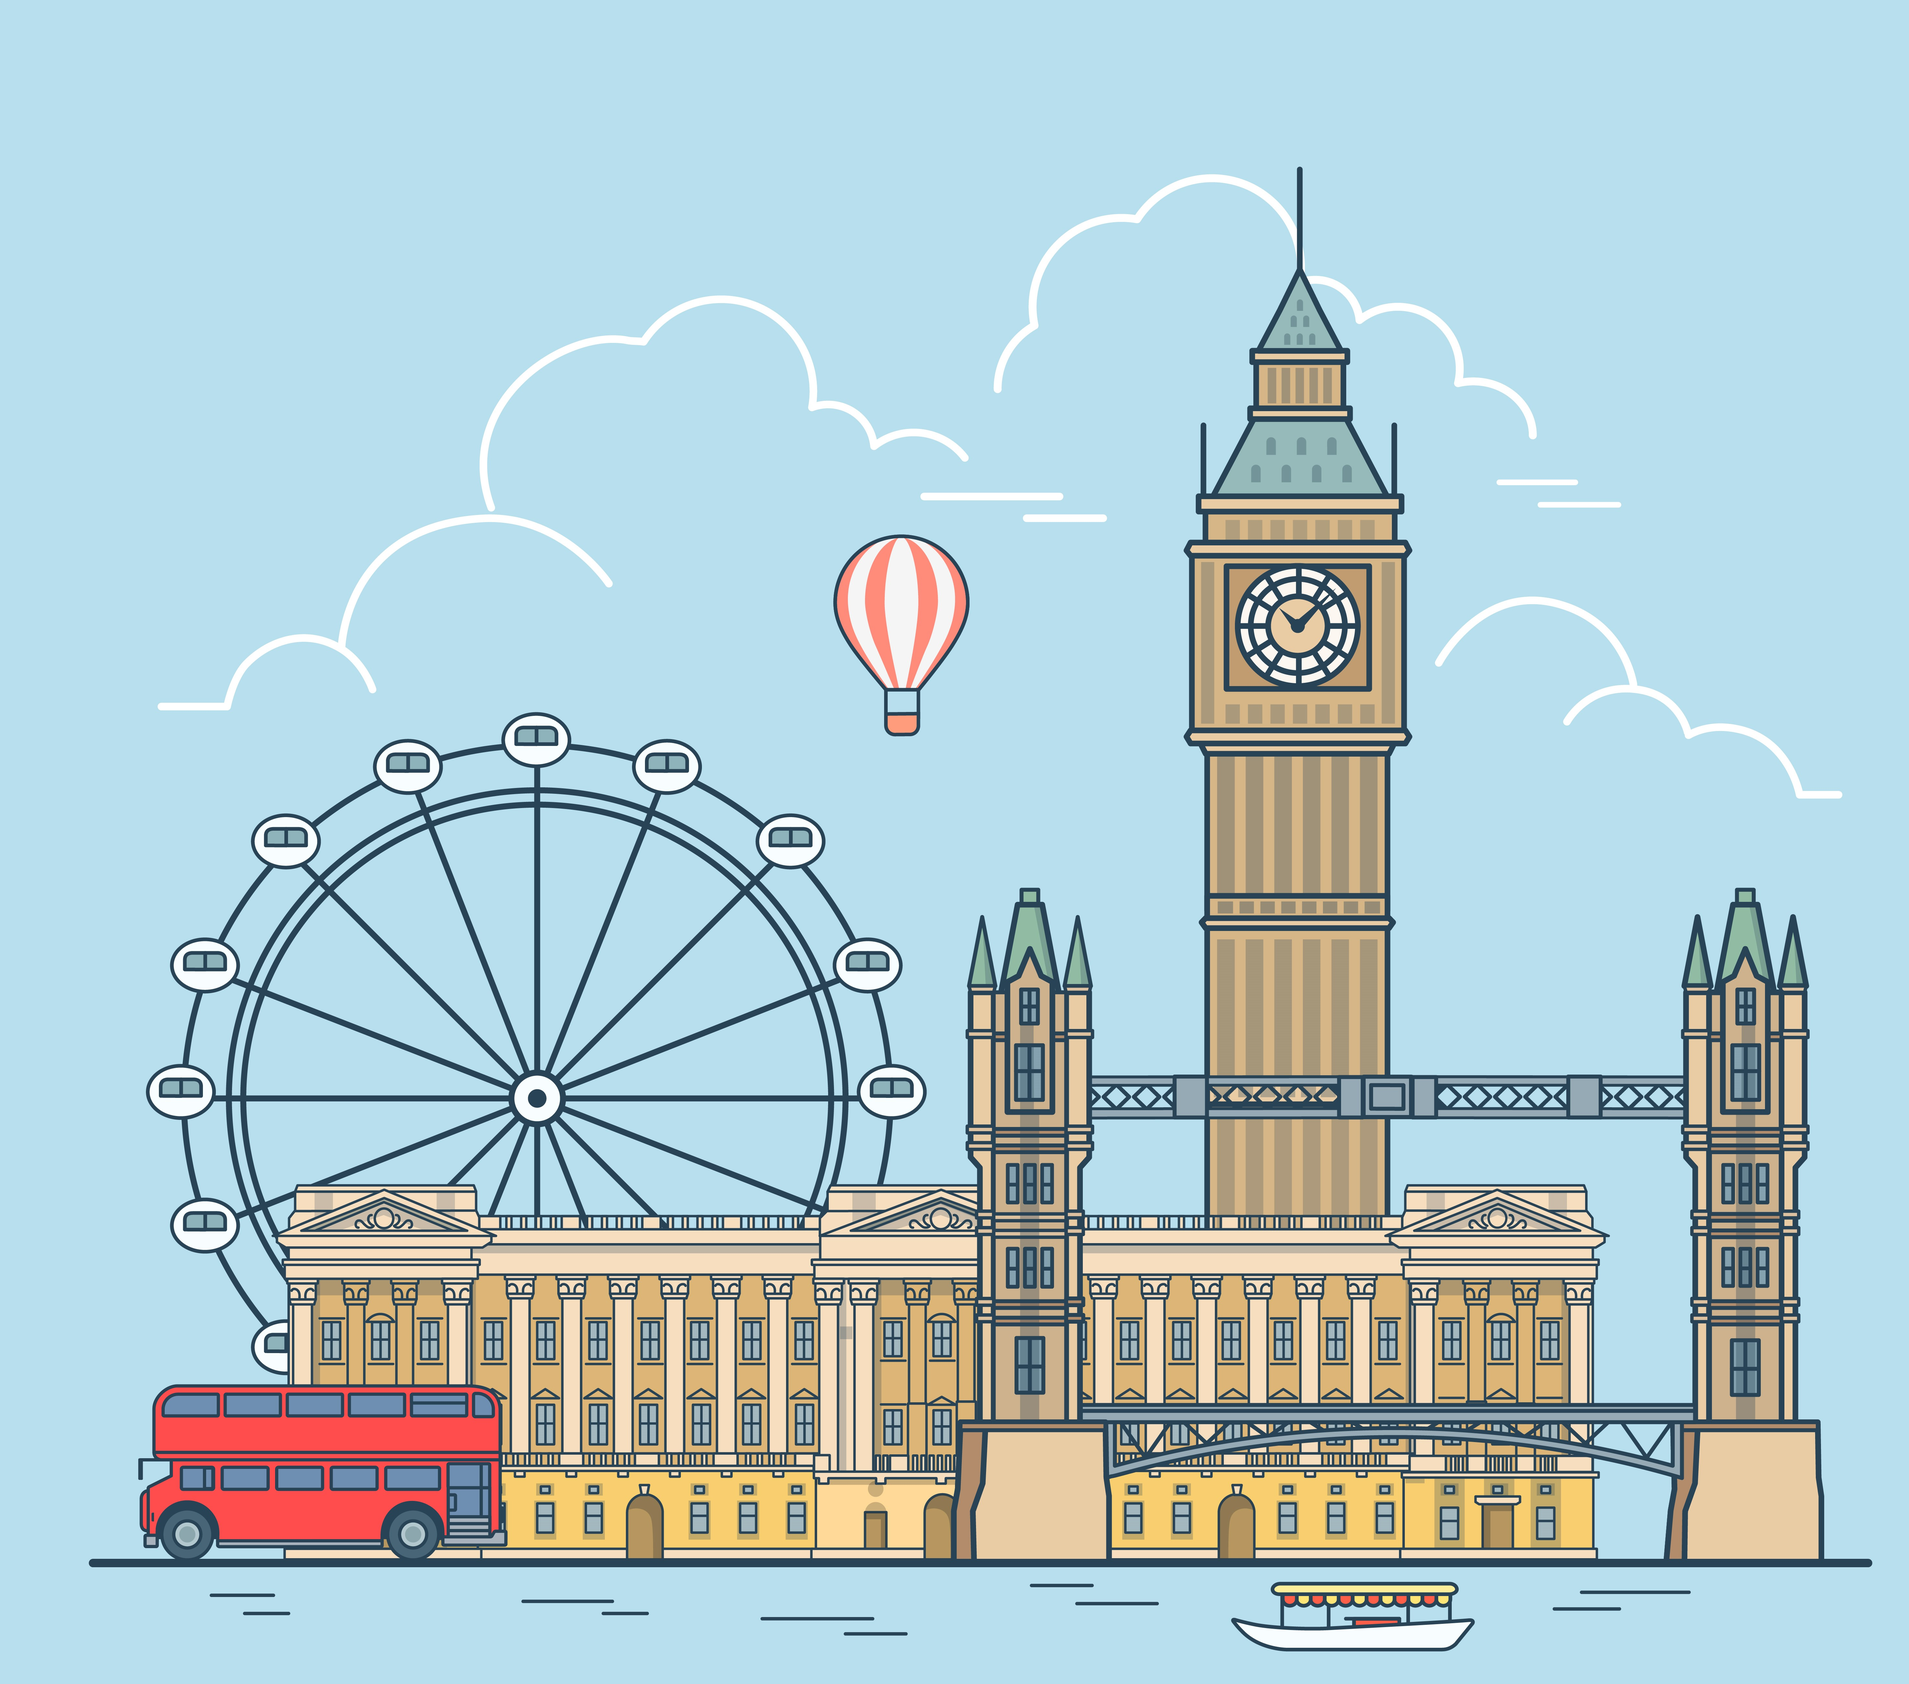
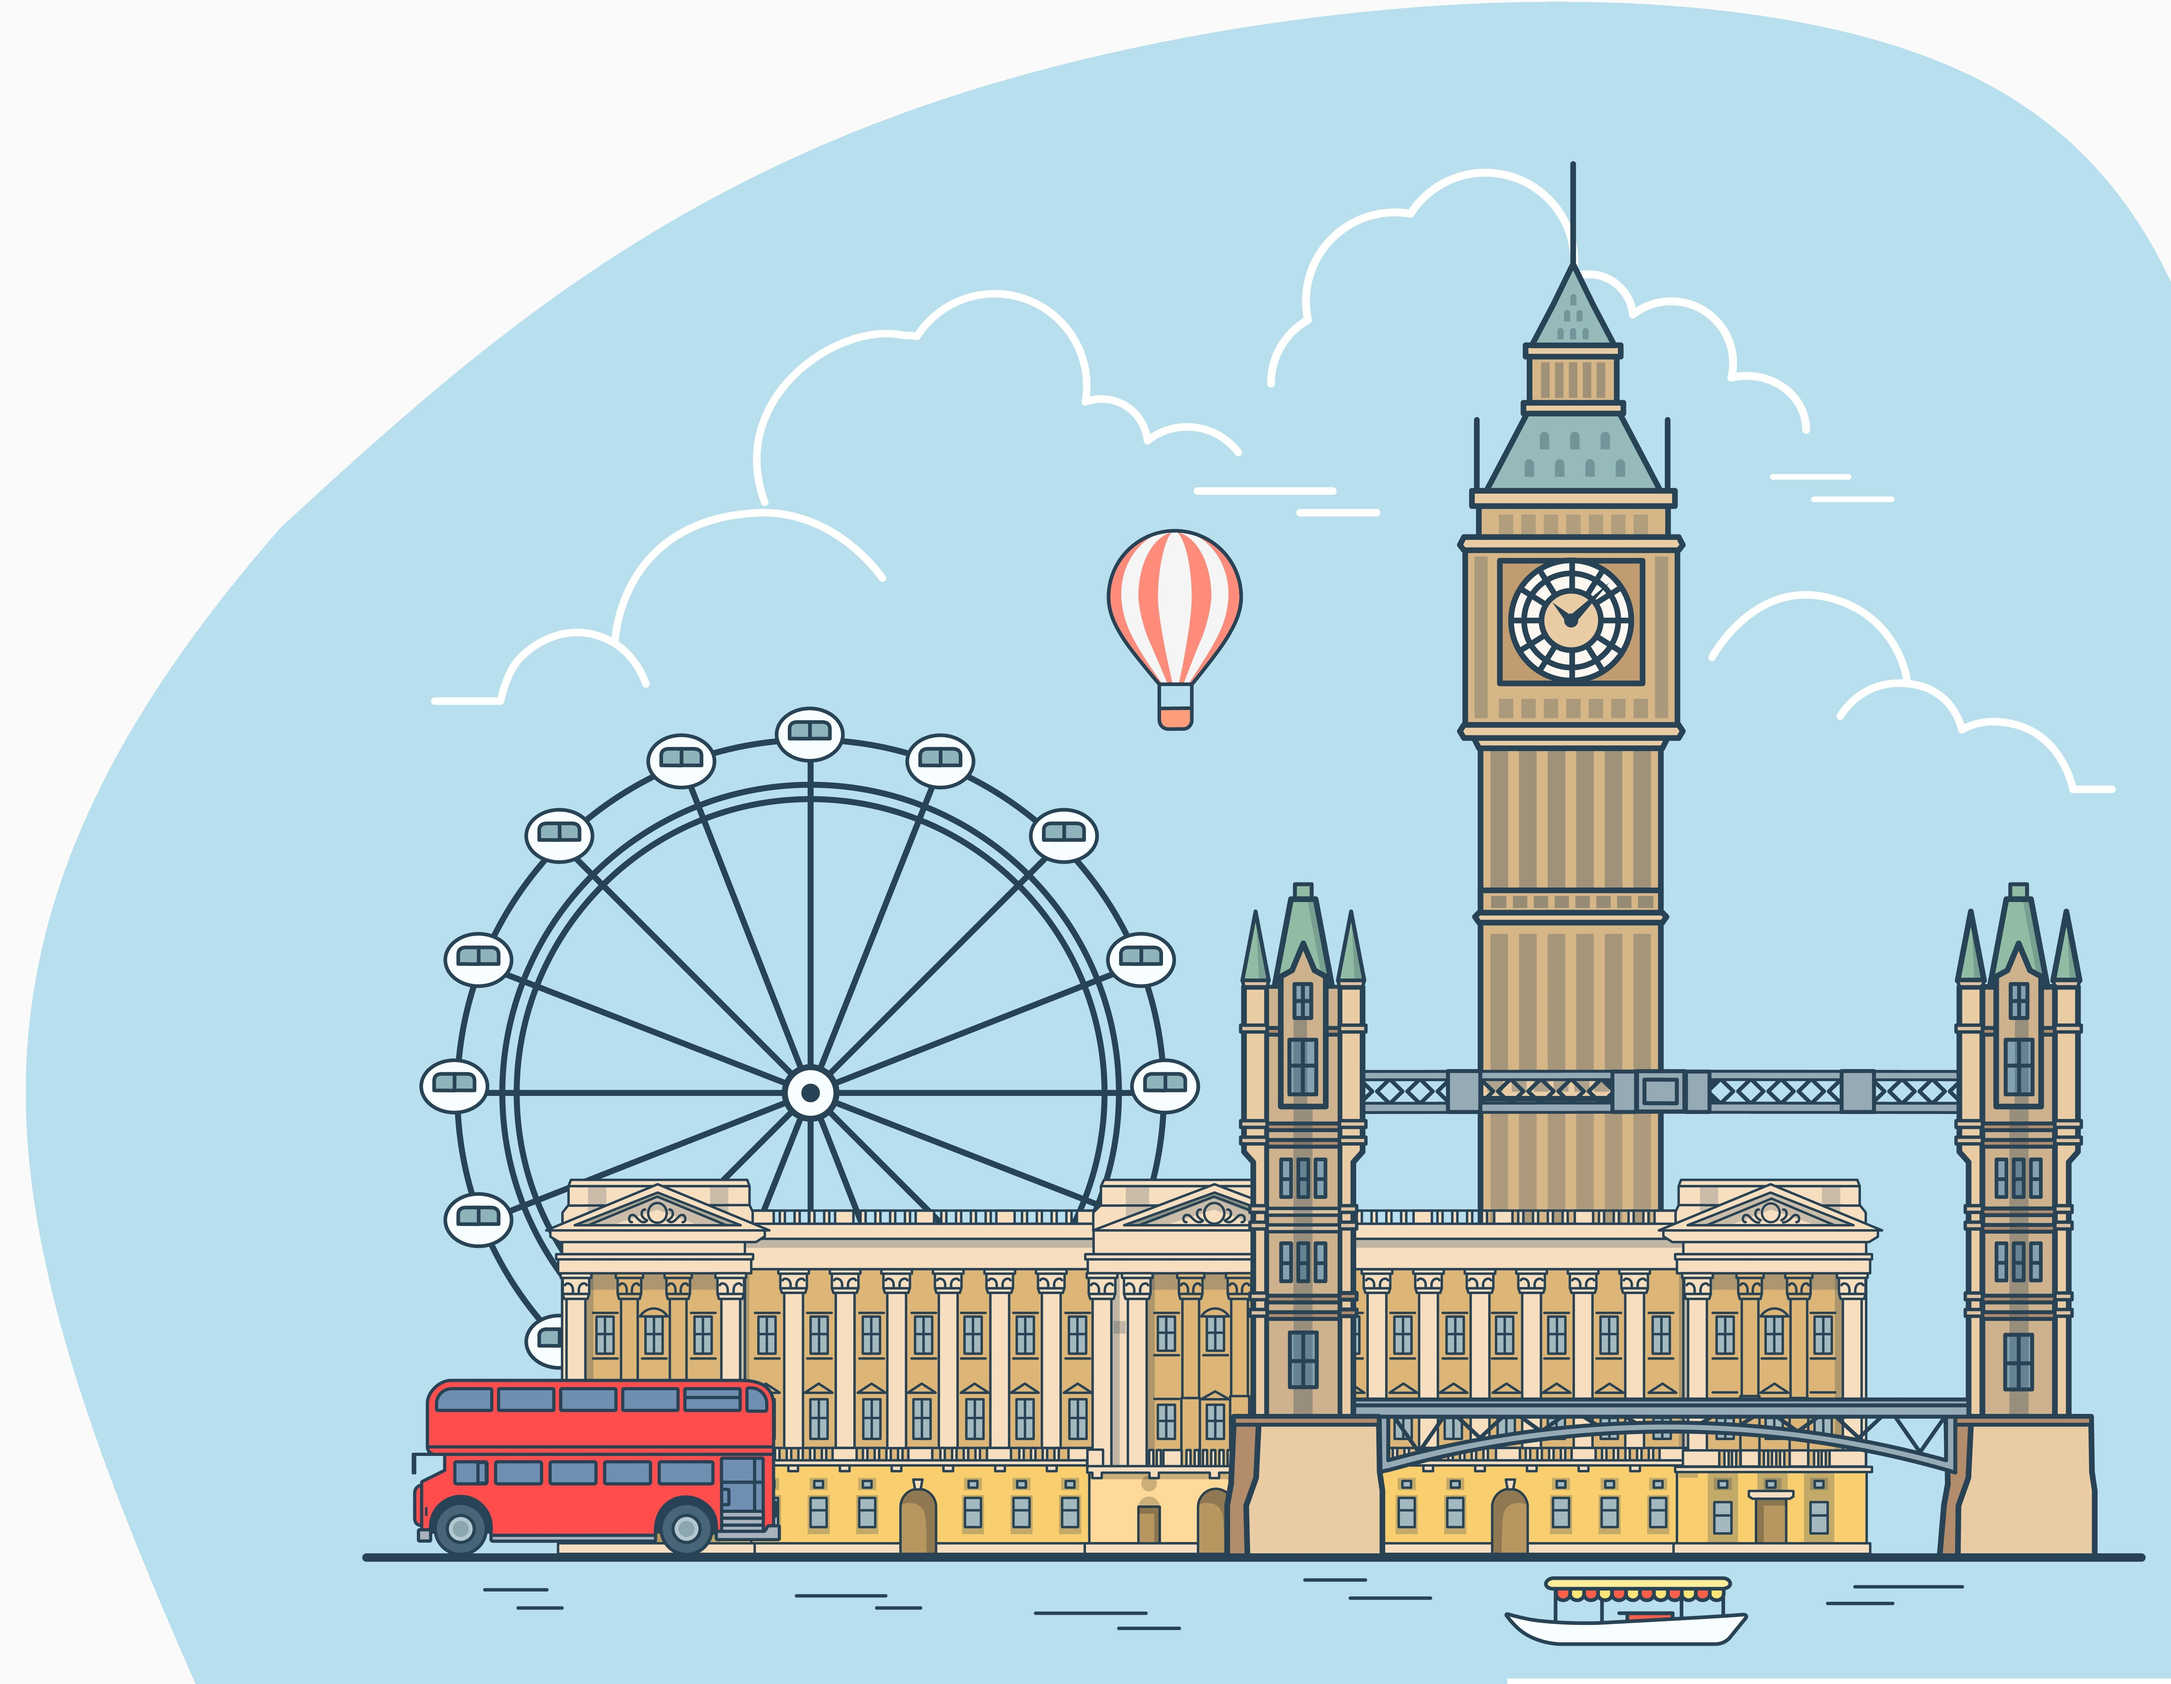
new background

diff --git a/src/main/resources/templates/index.html b/src/main/resources/templates/index.html
@@ -23,7 +23,7 @@
                 <div class="alert alert-danger" style="width: 30%;" role="alert" th:if="${error}">Postcode invalid</div>
             </div>
         </div>
-        <img src="../../images/london-travel.jpg" style="position: absolute; bottom: 0; right: 0; height: 80%; margin: 0 0 2rem 2rem; z-index: -1;"/>
+        <img src="../../images/london-travel.jpg" style="position: absolute; bottom: 0; right: 0; height: 80%; z-index: -1;"/>
     </div>
 </div>
 </body>

diff --git a/src/main/resources/templates/layout.html b/src/main/resources/templates/layout.html
@@ -6,7 +6,7 @@
     <link rel="stylesheet" th:href="@{/css/bootstrap.min.css}"
           href="../../css/bootstrap.min.css" />
 </head>
-<body style="background-color: #b8dfee;">
+<body style="background-color: #fafafa;">
 <nav class="navbar navbar-expand-md navbar-dark bg-dark">
     <a class="navbar-brand" th:href="@{/}">
         <img src="https://image.flaticon.com/icons/svg/335/335121.svg" width="50" height="50" alt="BusBoard"/>
